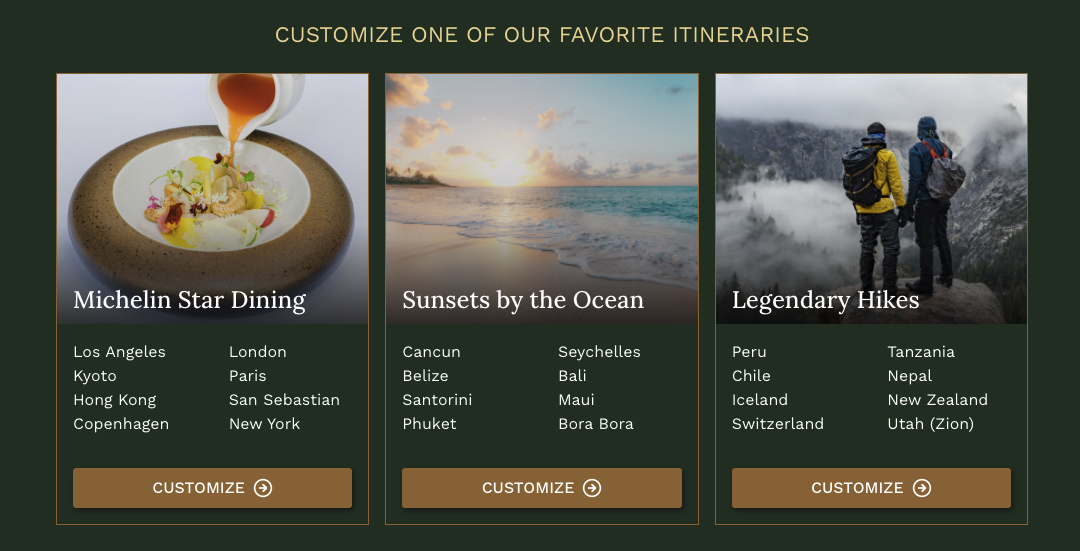
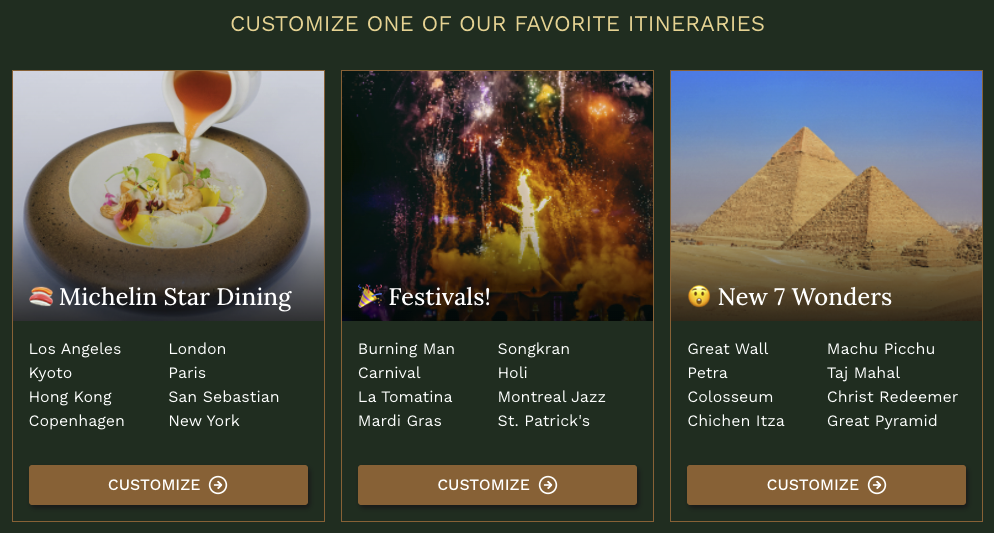
Created Gemfile and Procfile.

diff --git a/README.md b/README.md
@@ -1,18 +1,19 @@
 # Eight Wonders: Flight Path Optimization for Your Next Round-the-World Adventure
 
-<p align="center">
-  <img width="100%" src="public/images/eight_wonders_homepage.png">
-</p>
+![Eight Wonders Home Page](public/images/eight_wonders_homepage.png)
 
-Have you ever wanted to take off for a few months to travel around the world and experience all those places on your bucket list? We'd love to help you create an itinerary that minimizes time spent on the plane so you can do what you've always wanted to do. **Eight Wonders** is a flight path optimizer which calculates the shortest path that connects up to 8 airports, anywhere in the world. You can start an itinerary from scratch, or customize one of our favorites such as *Michelin Star Dining* or *Legendary Hikes*. All you have to do is enter the airport codes (we have a search bar) and maybe jot down some attractions you want to see. We'll automatically sort the airports in the optimal flight order, and you can use that to book your tickets. Bon voyage! :airplane:
+Have you ever wanted to travel around the world to experience those places on your bucket list? We can help you create an itinerary that minimizes time spent on the plane. **Eight Wonders** is a flight path optimizer which calculates the shortest path that connects up to 8 airports, anywhere in the world. You can start an itinerary from scratch, or customize one of our favorites such as *Michelin Star Dining* or *Festivals!*. All you have to do is select 8 airport codes and maybe write down some attractions you want to see. We'll automatically sort the airports in the optimal flight order. Bon voyage! :airplane:
 
-**Favorite Itineraries** :wine_glass::spaghetti::cake:
+**Favorite Itineraries** :earth_americas:
 
-<p align="center">
-  <img width="100%" src="public/images/eight_wonders_favorites.png">
-</p>
+![Eight Wonders - Favorite Itineraries](public/images/eight_wonders_favorites.png)
 
 **Creating an Itinerary** :pencil2:
-<p align="center">
-  <img width="100%" src="public/images/eight_wonders_itinerary.png">
-</p>
+
+![Eight Wonders - Create Itinerary](public/images/eight_wonders_itinerary.png)
+
+**Share on IG/FB/TW** :iphone:
+
+![Eight Wonders - Share](public/images/eight_wonders_sharing.png)
+
+## 
